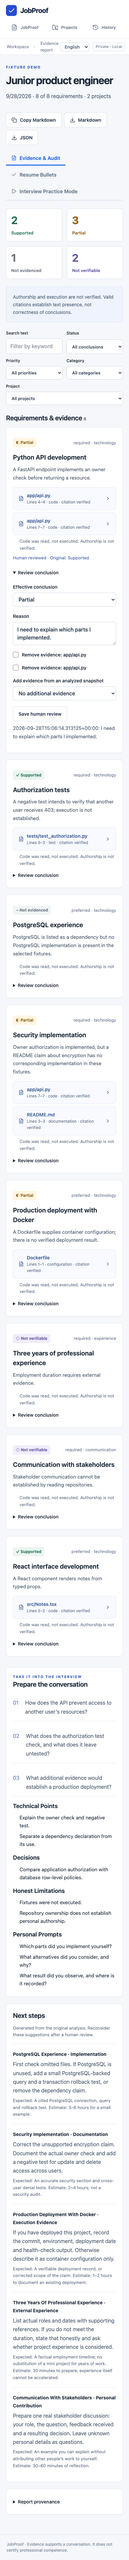
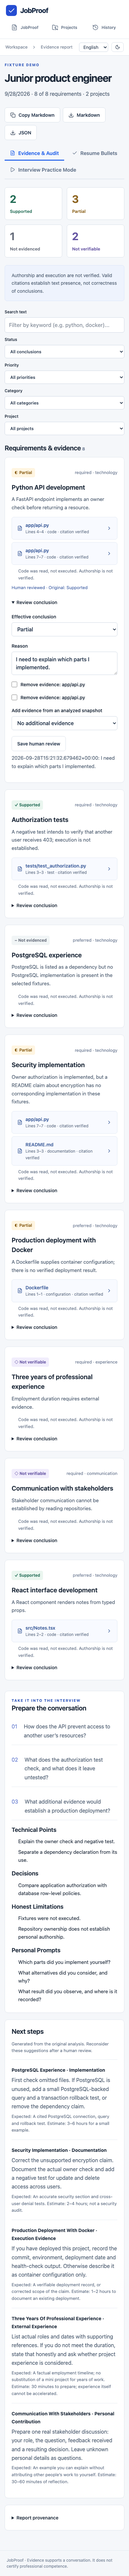
feat: add dark mode theme toggle with persistent preference

Changed region(s): [[0.0308, 0.0, 0.8923, 0.9665], [0.8308, 0.3118, 0.8615, 0.4053], [0.9231, 0.1247, 0.9538, 0.1559]]

diff --git a/frontend/src/style.css b/frontend/src/style.css
@@ -750,11 +750,34 @@ details .form {
     font-size: 1.3rem;
   }
   header {
-    height: 48px;
-    padding: 0 20px;
+    height: auto;
+    min-height: 48px;
+    padding: 10px 16px;
+    gap: 8px;
+    flex-wrap: wrap;
+  }
+  header .pill {
+    display: none;
+  }
+  .report-heading {
+    flex-direction: column;
+    align-items: flex-start;
+    gap: 12px;
+  }
+  .tab-group {
+    margin: 16px 0 20px;
+    gap: 4px;
+    max-width: 100%;
+  }
+  .tab-button {
+    padding: 6px 10px;
+    font-size: 0.85rem;
+  }
+  .filters label {
+    min-width: 100%;
   }
   main {
-    padding: 29px 18px 40px;
+    padding: 20px 14px 40px;
   }
   h1 {
     font-size: 2rem;
@@ -939,4 +962,236 @@ details .form {
   padding-top: 16px;
   border-top: 1px solid #e2e8f0;
 }
+
+/* ==========================================================================
+   Dark Mode (Mode Nit)
+   ========================================================================== */
+html.dark,
+html.dark body {
+  background-color: #0b1120;
+  color: #f1f5f9;
+}
+
+html.dark .app {
+  background-color: #0b1120;
+}
+
+html.dark .sidebar {
+  background-color: #080d1a;
+  border-right-color: #1e293b;
+}
+
+html.dark .brand {
+  color: #f8fafc;
+}
+
+html.dark .workspace-label {
+  color: #64748b;
+}
+
+html.dark .nav {
+  color: #94a3b8;
+}
+
+html.dark .nav:hover {
+  background-color: #1e293b;
+  color: #f8fafc;
+}
+
+html.dark .nav.active {
+  background-color: #1e3a8a;
+  color: #93c5fd;
+}
+
+html.dark .sidebar-bottom {
+  color: #64748b;
+}
+
+html.dark .local {
+  border-top-color: #1e293b;
+}
+
+html.dark header {
+  background-color: #080d1a;
+  border-bottom-color: #1e293b;
+  color: #94a3b8;
+}
+
+html.dark h1,
+html.dark h2,
+html.dark h3 {
+  color: #f8fafc;
+}
+
+html.dark p {
+  color: #94a3b8;
+}
+
+html.dark small,
+html.dark .quiet {
+  color: #64748b;
+}
+
+html.dark .eyebrow {
+  color: #60a5fa;
+}
+
+html.dark .card {
+  background-color: #111c33;
+  border-color: #1e293b;
+  color: #f1f5f9;
+}
+
+html.dark .card.demo-card {
+  background: linear-gradient(135deg, #111c33 0%, #1e293b 100%);
+  border-color: #2563eb44;
+}
+
+html.dark .pill {
+  background-color: #1e293b;
+  border-color: #334155;
+  color: #94a3b8;
+}
+
+html.dark button,
+html.dark .button {
+  background-color: #1e293b;
+  border-color: #334155;
+  color: #f1f5f9;
+}
+
+html.dark button:hover,
+html.dark .button:hover {
+  background-color: #334155;
+}
+
+html.dark button.primary {
+  background-color: #2563eb;
+  border-color: #1d4ed8;
+  color: #ffffff;
+}
+
+html.dark button.primary:hover {
+  background-color: #1d4ed8;
+}
+
+html.dark input,
+html.dark textarea,
+html.dark select {
+  background-color: #0b1120;
+  border-color: #334155;
+  color: #f1f5f9;
+}
+
+html.dark input:focus,
+html.dark textarea:focus,
+html.dark select:focus {
+  border-color: #60a5fa;
+  outline-color: #60a5fa;
+}
+
+html.dark .tab-group {
+  border-bottom-color: #1e293b;
+}
+
+html.dark .tab-button {
+  color: #94a3b8;
+}
+
+html.dark .tab-button:hover {
+  color: #f8fafc;
+}
+
+html.dark .tab-button.active {
+  color: #60a5fa;
+  border-bottom-color: #60a5fa;
+}
+
+html.dark .source-option {
+  background-color: #0b1120;
+  border-color: #334155;
+  color: #94a3b8;
+}
+
+html.dark .source-option.active {
+  background-color: #1e3a8a;
+  border-color: #3b82f6;
+  color: #bfdbfe;
+}
+
+html.dark .bullet-card {
+  background-color: #111c33;
+  border-color: #1e293b;
+  color: #f1f5f9;
+}
+
+html.dark .bullet-text {
+  color: #f1f5f9;
+}
+
+html.dark .bullet-meta {
+  color: #94a3b8;
+}
+
+html.dark .interview-card {
+  background-color: #111c33;
+  border-color: #1e293b;
+  color: #f1f5f9;
+}
+
+html.dark .timer-box {
+  background-color: #0b1120;
+  border-color: #1e293b;
+}
+
+html.dark .timer-display {
+  color: #60a5fa;
+}
+
+html.dark .count {
+  background-color: #111c33;
+  border-color: #1e293b;
+}
+
+html.dark .notice {
+  background-color: #1e293b;
+  border-color: #334155;
+  color: #cbd5e1;
+}
+
+html.dark .posting {
+  background-color: #0b1120;
+  color: #e2e8f0;
+  border-color: #1e293b;
+}
+
+html.dark .history > button {
+  border-bottom-color: #1e293b;
+}
+
+html.dark .history > button:hover {
+  background-color: #1e293b;
+}
+
+html.dark .evidence-panel {
+  background-color: #080d1a;
+  border-left-color: #1e293b;
+  color: #f1f5f9;
+}
+
+html.dark .evidence-panel::backdrop {
+  background: rgba(0, 0, 0, 0.75);
+}
+
+html.dark .action-bar {
+  background-color: #080d1a;
+  border-color: #1e293b;
+  color: #f1f5f9;
+}
+
+html.dark footer {
+  border-top-color: #1e293b;
+  color: #64748b;
+}
+
 

diff --git a/frontend/src/main.tsx b/frontend/src/main.tsx
@@ -23,6 +23,8 @@ import {
   Play,
   Pause,
   RotateCcw,
+  Moon,
+  Sun,
 } from "lucide-react";
 import { translations, type Lang } from "./i18n";
 import { one, many, request, labels, counts } from "./api";
@@ -72,7 +74,17 @@ function App() {
     [revealedQuestions, setRevealedQuestions] = useState<Record<number, boolean>>({}),
     [lang, setLang] = useState<Lang>(
       (localStorage.getItem("jobproof-lang") as Lang) || "en",
-    );
+    ),
+    [theme, setTheme] = useState<"light" | "dark">(() => {
+      const saved = localStorage.getItem("jobproof-theme");
+      if (saved === "light" || saved === "dark") return saved;
+      return window.matchMedia("(prefers-color-scheme: dark)").matches ? "dark" : "light";
+    });
+
+  useEffect(() => {
+    document.documentElement.classList.toggle("dark", theme === "dark");
+    localStorage.setItem("jobproof-theme", theme);
+  }, [theme]);
   const t = translations[lang];
 
   useEffect(() => {
@@ -291,6 +303,16 @@ function App() {
               <option value="ca">Català</option>
               <option value="es">Español</option>
             </select>
+            <button
+              type="button"
+              className="button"
+              style={{ padding: "6px 10px", fontSize: "0.85rem" }}
+              aria-label={theme === "dark" ? t.themeToggleLight : t.themeToggleDark}
+              title={theme === "dark" ? t.themeToggleLight : t.themeToggleDark}
+              onClick={() => setTheme((prev) => (prev === "dark" ? "light" : "dark"))}
+            >
+              {theme === "dark" ? <Sun size={15} /> : <Moon size={15} />}
+            </button>
             <span className="pill">Private · Local</span>
           </div>
         </header>

diff --git a/frontend/src/i18n.ts b/frontend/src/i18n.ts
@@ -76,6 +76,9 @@ export interface Translations {
   hideAnswer: string;
   prevQuestion: string;
   nextQuestion: string;
+  // Theme
+  themeToggleDark: string;
+  themeToggleLight: string;
 }
 
 export const translations: Record<Lang, Translations> = {
@@ -157,6 +160,8 @@ export const translations: Record<Lang, Translations> = {
     hideAnswer: "Amagar detalls",
     prevQuestion: "Anterior",
     nextQuestion: "Següent",
+    themeToggleDark: "Mode fosc",
+    themeToggleLight: "Mode clar",
   },
   en: {
     brand: "JobProof",
@@ -236,6 +241,8 @@ export const translations: Record<Lang, Translations> = {
     hideAnswer: "Hide details",
     prevQuestion: "Previous",
     nextQuestion: "Next",
+    themeToggleDark: "Dark mode",
+    themeToggleLight: "Light mode",
   },
   es: {
     brand: "JobProof",
@@ -315,5 +322,7 @@ export const translations: Record<Lang, Translations> = {
     hideAnswer: "Ocultar detalles",
     prevQuestion: "Anterior",
     nextQuestion: "Siguiente",
+    themeToggleDark: "Modo oscuro",
+    themeToggleLight: "Modo claro",
   },
 };
